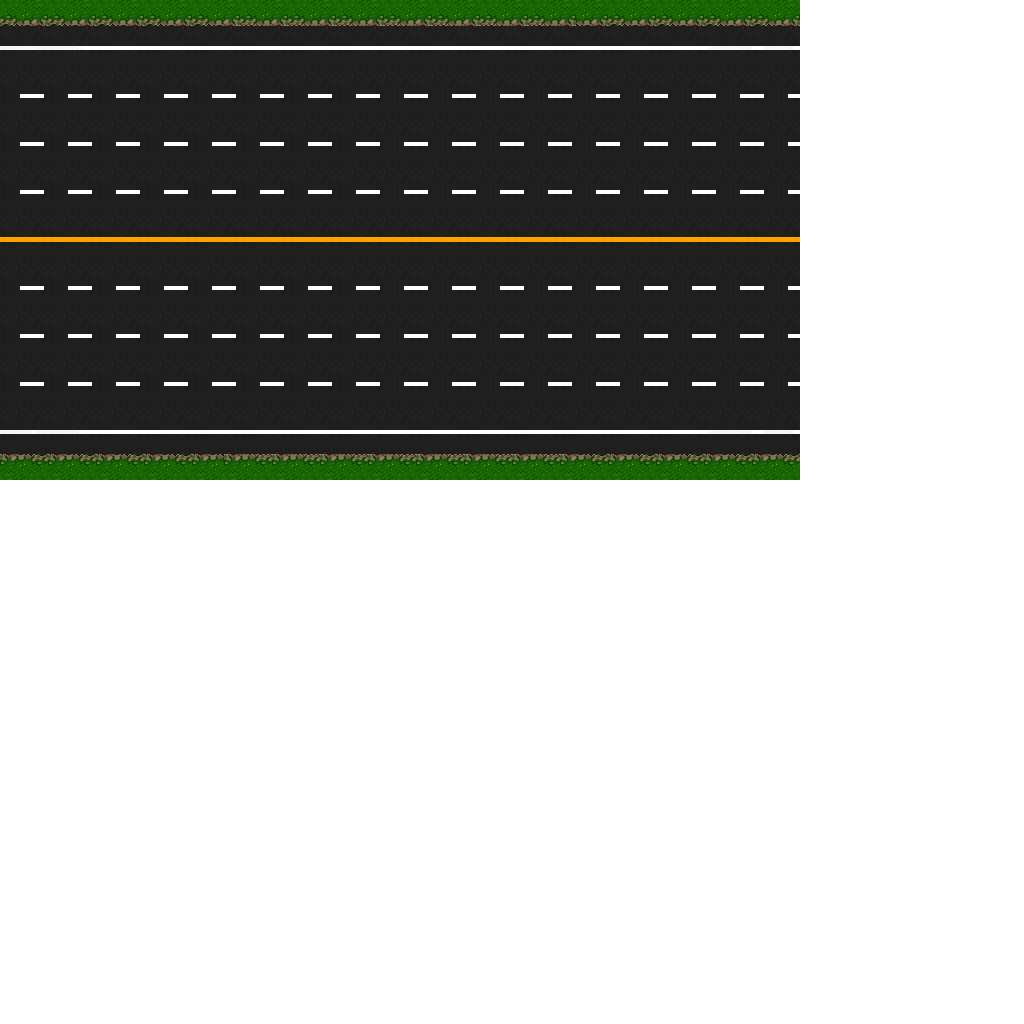
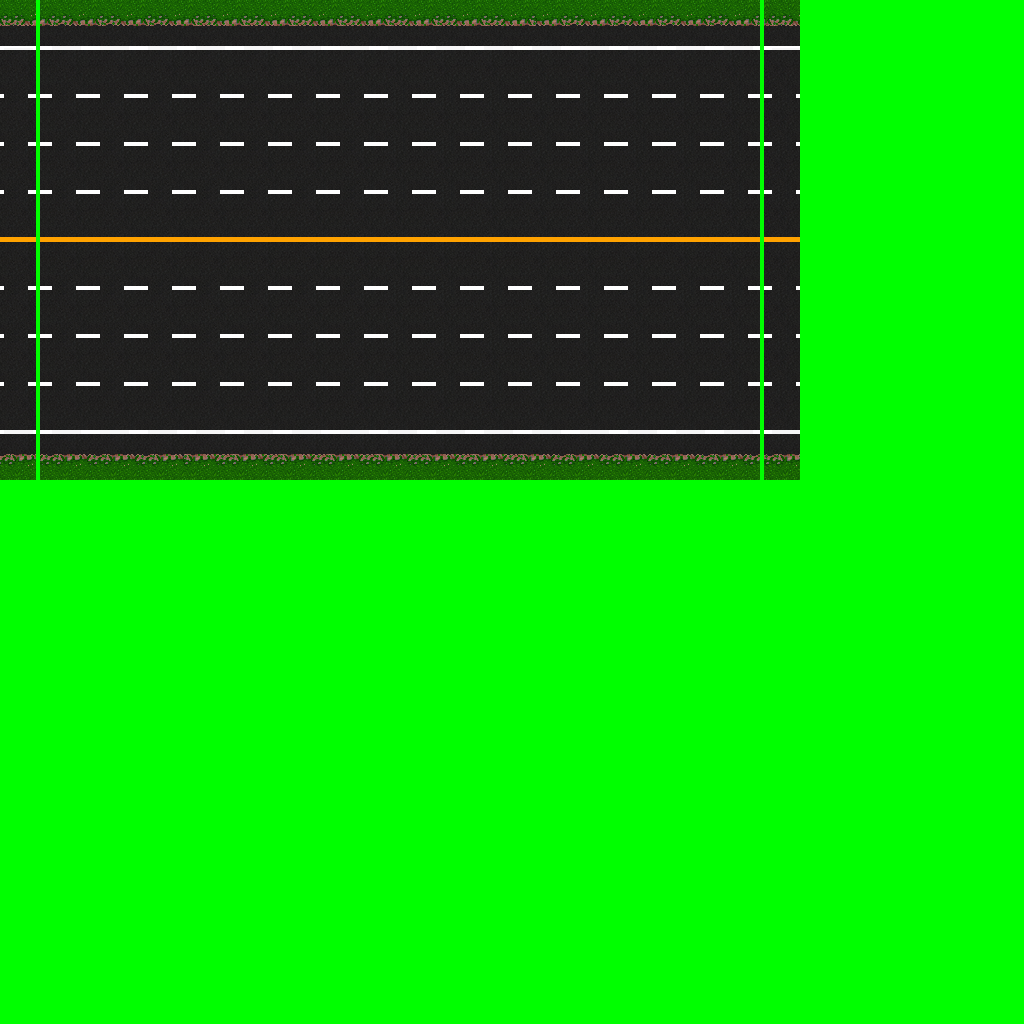
git-svn-id: https://svn.aep.polymtl.ca/svn/GCA3OursCureuil@17 05535eda-d6a5-4ac4-b685-4147b9d08a8c

diff --git a/ourscureuil/src/ca/polymtl/ourscureuil/HUD.java b/ourscureuil/src/ca/polymtl/ourscureuil/HUD.java
@@ -12,85 +12,44 @@ public class HUD {
 	private BitmapFont timer;
 	private SpriteBatch hudBatch;
 	private int w,h;
-	private TextureRegion emptyLifebarLeft;
-	private TextureRegion emptyLifebarRight;
-	private TextureRegion emptyLifebarCenter;
-	private TextureRegion lifebarLeft;
-	private TextureRegion lifebarRight;
-	private TextureRegion lifebarCenter;
-	private final int maxLife = 5;
+	private TextureRegion lifebarLeftBorder;
+	private TextureRegion lifebarRightBorder;
+	private TextureRegion lifebarPoint;
 
 	public HUD(int w,int h) {
 		this.w = w;
 		this.h = h;
 		hudBatch = new SpriteBatch();
-		
 		lifebarTexture = new Texture(Gdx.files.internal("data/lifebar.png"));
 		lifebarTexture.setFilter(TextureFilter.Linear, TextureFilter.Linear);
-		
-		emptyLifebarLeft = new TextureRegion(lifebarTexture, 	0, 0, 32, 32);
-		emptyLifebarCenter = new TextureRegion(lifebarTexture, 	32, 0, 32, 32);
-		emptyLifebarRight = new TextureRegion(lifebarTexture, 	64, 0, 32, 32);
-		
-		lifebarLeft = new TextureRegion(lifebarTexture, 	0, 32, 32, 32);
-		lifebarCenter = new TextureRegion(lifebarTexture, 	32, 32, 32, 32);
-		lifebarRight = new TextureRegion(lifebarTexture, 	64, 32, 32, 32);
-		
-		
+		lifebarLeftBorder = new TextureRegion(lifebarTexture, 	0, 0, 32, 32);
+		lifebarRightBorder = new TextureRegion(lifebarTexture, 	32, 0, 32, 32);
+		lifebarPoint = new TextureRegion(lifebarTexture, 	0, 32, 32, 32);
 		timer = new BitmapFont();
-		timer.setColor(0.0f,0.0f,0.0f,1.0f);
+		timer.setScale(2.0f, 2.0f);
+		timer.setColor(0.0f,1.0f,0.0f,1.0f);
 	}
 	
-	public void printNumber(int value, int horizontalOffset, int verticalOffset) {
-		String toPrint = String.valueOf(value);
-		print(toPrint, horizontalOffset, verticalOffset);
-		
-	}
-	
-	public void print(String toPrint, int horizontalOffset, int verticalOffset) {
-		
-		hudBatch.begin();
-			drawLifeBar(5);
-			timer.draw(hudBatch, toPrint, w - 100+horizontalOffset,h-10+verticalOffset);
-		hudBatch.end();
-	}
-	
-	public void draw(int life, int remainingTime) {
-		int seconds = remainingTime % 60;
-		int minutes = remainingTime / 60;
+	public void draw(int nCurrLife, int nTotLife, int nRemainingTimeSec) {
+		int seconds = nRemainingTimeSec % 60;
+		int minutes = nRemainingTimeSec / 60;
 		String time = String.valueOf(minutes) + ":" + String.valueOf(seconds);
 		
 		hudBatch.begin();
-			drawLifeBar(5);
-			timer.draw(hudBatch, time, w - 100,h-10);
+			drawLifeBar(nCurrLife,nTotLife);
+			drawTimer(time);
 		hudBatch.end();
 	}
 	
-	private void drawLifeBar(int life) {
-		for(int i = 0; i < maxLife; ++i) {
-			switch(i) {
-			case 0: // premier
-				if(life == 0) {
-					hudBatch.draw(emptyLifebarLeft, 	100, h-10-32);
-				} else {
-					hudBatch.draw(lifebarLeft, 			100, h-10-32);
-				}
-				break;
-			case maxLife-1:
-				if(life == maxLife) {
-					hudBatch.draw(lifebarRight, 		100 + i * 32, h-10-32);
-				} else {
-					hudBatch.draw(emptyLifebarRight, 	100 + i * 32, h-10-32);
-				}
-				break;
-			default:
-				if(life > i) {
-					hudBatch.draw(lifebarCenter, 		100 + i * 32, h-10-32);
-				} else {
-					hudBatch.draw(emptyLifebarCenter, 	100 + i * 32, h-10-32);
-				}
-				break;	
-			}
+	private void drawLifeBar(int nCurrLife, int nTotLife) {
+		hudBatch.draw(lifebarLeftBorder, 80, h-40);
+		hudBatch.draw(lifebarRightBorder, 80+1+(nTotLife-1)*(18+2), h-40);
+		for(int i = 0; i < nCurrLife; ++i) {
+			hudBatch.draw(lifebarPoint, 80+1+i*(18+2), h-40);
 		}
+	}
+	
+	private void drawTimer(String time) {
+		timer.draw(hudBatch, time, w-150, h-10);
 	}
 }

diff --git a/ourscureuil/src/ca/polymtl/ourscureuil/MyGdxGame.java b/ourscureuil/src/ca/polymtl/ourscureuil/MyGdxGame.java
@@ -36,10 +36,10 @@ public class MyGdxGame implements ApplicationListener {
 		
 		texture.setFilter(TextureFilter.Linear, TextureFilter.Linear);
 
-		TextureRegion region = new TextureRegion(texture, 0, 0, 512, 275);
+		TextureRegion region = new TextureRegion(texture, 0, 0, 800, 480);
 		
 		sprite = new Sprite(region);
-		sprite.setSize(0.9f, 0.9f * sprite.getHeight() / sprite.getWidth());
+		sprite.setSize(1.0f, 1.0f * sprite.getHeight() / sprite.getWidth());
 		sprite.setOrigin(sprite.getWidth()/2, sprite.getHeight()/2);
 		sprite.setPosition(-sprite.getWidth()/2, -sprite.getHeight()/2);
 		
@@ -63,7 +63,7 @@ public class MyGdxGame implements ApplicationListener {
 		batch.end();
 		
 		//renderTree.draw
-		hud.draw(0, 75);
+		hud.draw(5, 8, 75);
 		
 		
 	}
